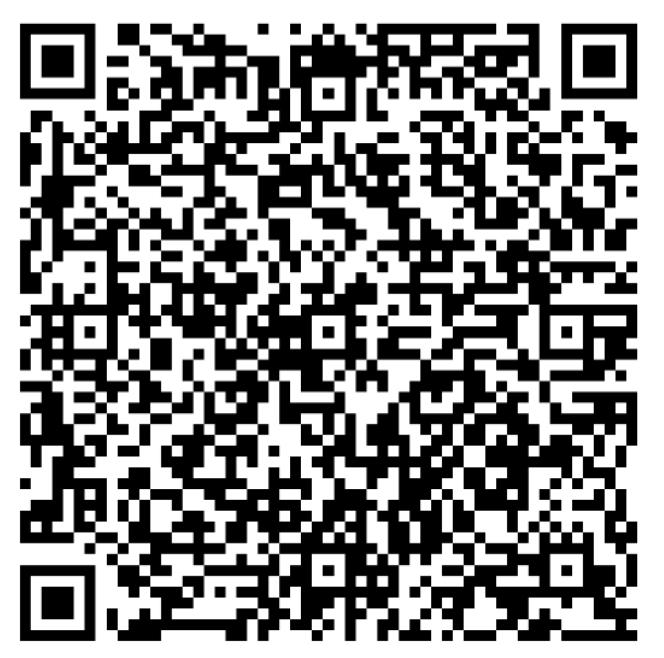
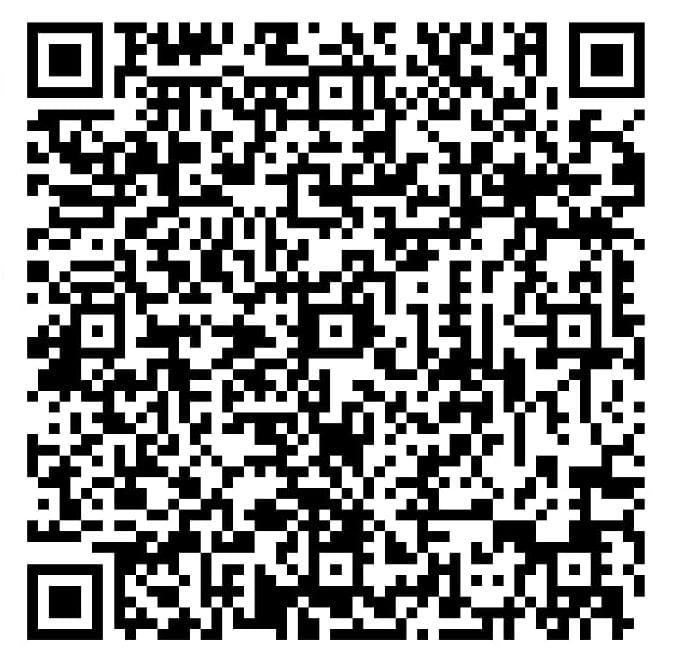
fix: ganti QRIS ke payload Evolusiai Store (payment.js, bot, gambar)
Decode qris.new.jpeg → payload merchant "Evolusiai Store" (CRC 760B),
update QRIS_STATIC di app & bot Telegram, ganti qris.jpeg di repo.

🤖 Generated with Codebuff

diff --git a/app/src/data/payment.js b/app/src/data/payment.js
@@ -1,9 +1,9 @@
 // Konfigurasi pembayaran EvolusiAI.
 // Dua metode: QRIS & Crypto (BNB / USDT on BNB Smart Chain).
 
-// Payload QRIS statis asli (EvolusiAI) — hasil decode dari qris.jpeg.
+// Payload QRIS statis (Evolusiai Store) — hasil decode dari qris.jpeg.
 const QRIS_STATIC =
-  '00020101021126610016ID.CO.SHOPEE.WWW01189360091800231770190208231770190303UMI51440014ID.CO.QRIS.WWW0215ID10265313881830303UMI5204581753033605802ID5911UPbit Store6013JAKARTA PUSAT61051052062070703A0163044EF7'
+  '00020101021126610016ID.CO.SHOPEE.WWW01189360091800231770190208231770190303UMI51440014ID.CO.QRIS.WWW0215ID10265313881830303UMI5204581753033605802ID5915Evolusiai Store6013JAKARTA PUSAT61051052062070703A016304760B'
 
 // CRC16/CCITT-FALSE (poly 0x1021, init 0xFFFF) — checksum wajib QRIS (tag 63).
 function crc16(str) {
@@ -19,7 +19,7 @@ function crc16(str) {
 }
 
 export const QRIS = {
-  merchant: 'EvolusiAI',
+  merchant: 'EvolusiAi Store',
   nmid: 'ID1026531388183',
   // QRIS DINAMIS: sisipkan nominal (tag 54), ubah jadi dynamic (POI 11→12),
   // lalu hitung ulang CRC. Hasilnya nominal terisi otomatis di app pembayaran

diff --git a/bot/upbit_bot.py b/bot/upbit_bot.py
@@ -117,7 +117,7 @@ def log_msg(uid, username, first_name, text):
 bot = telebot.TeleBot(BOT_TOKEN, parse_mode="HTML")
 
 # ═══ PAYMENT ═══
-QRIS_STATIC = "00020101021126610016ID.CO.SHOPEE.WWW01189360091800231770190208231770190303UMI51440014ID.CO.QRIS.WWW0215ID10265313881830303UMI5204581753033605802ID5911UPbit Store6013JAKARTA PUSAT61051052062070703A0163044EF7"
+QRIS_STATIC = "00020101021126610016ID.CO.SHOPEE.WWW01189360091800231770190208231770190303UMI51440014ID.CO.QRIS.WWW0215ID10265313881830303UMI5204581753033605802ID5915Evolusiai Store6013JAKARTA PUSAT61051052062070703A016304760B"
 
 def crc16(s):
     crc = 0xffff
